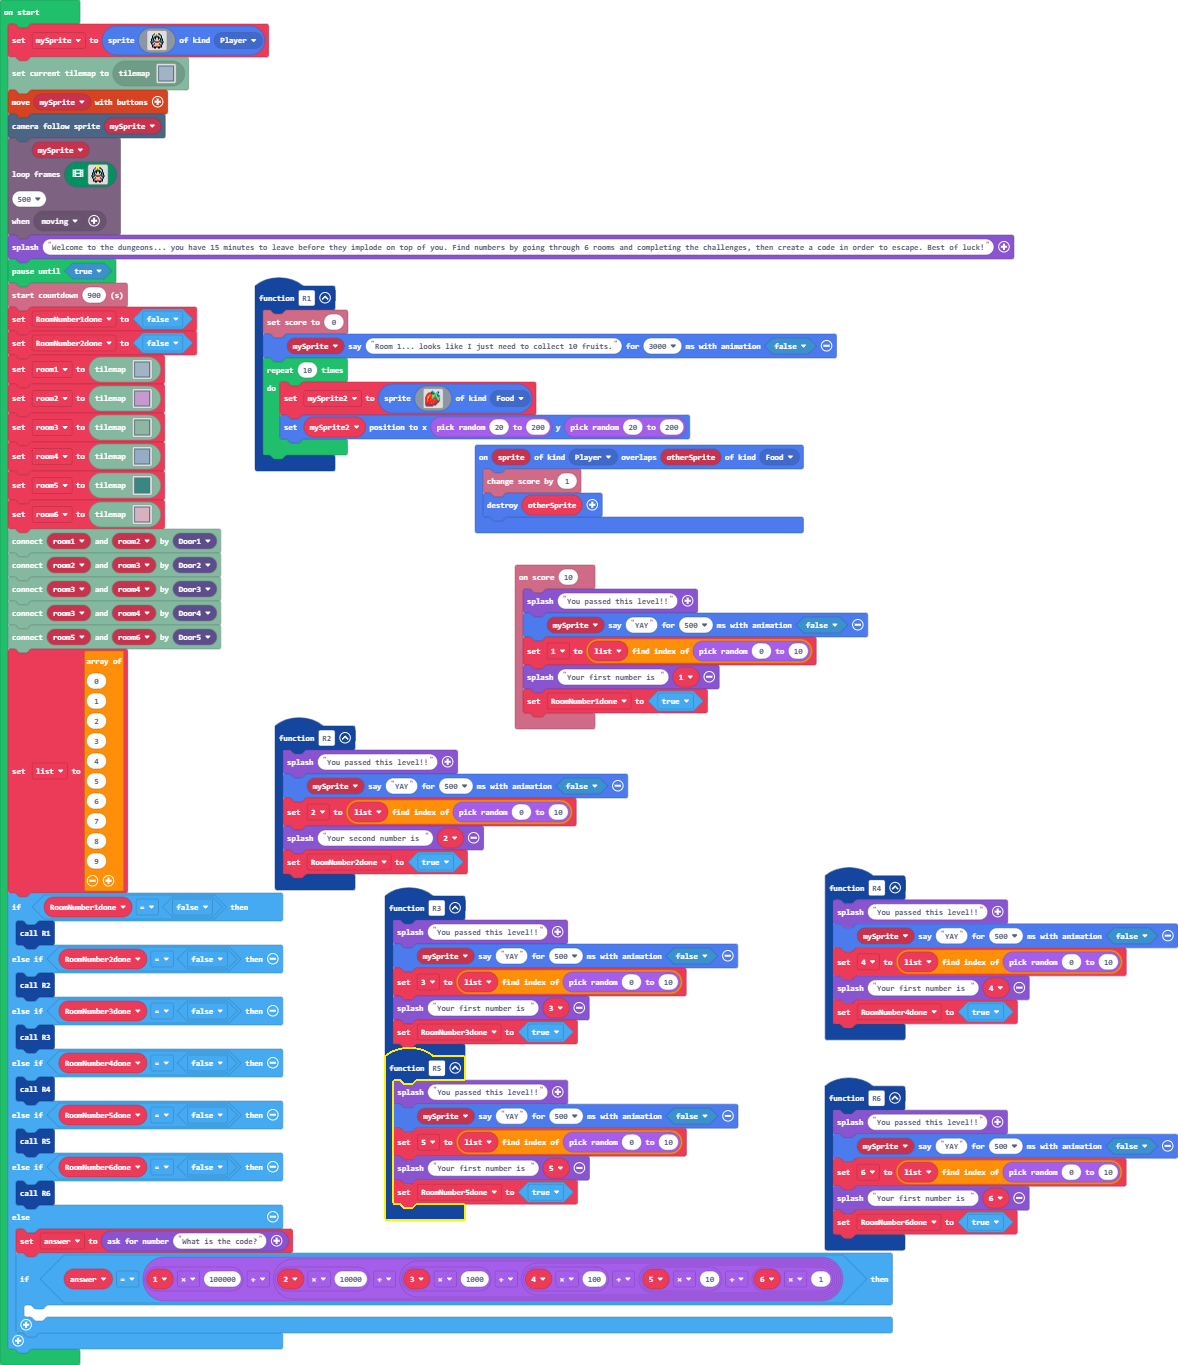
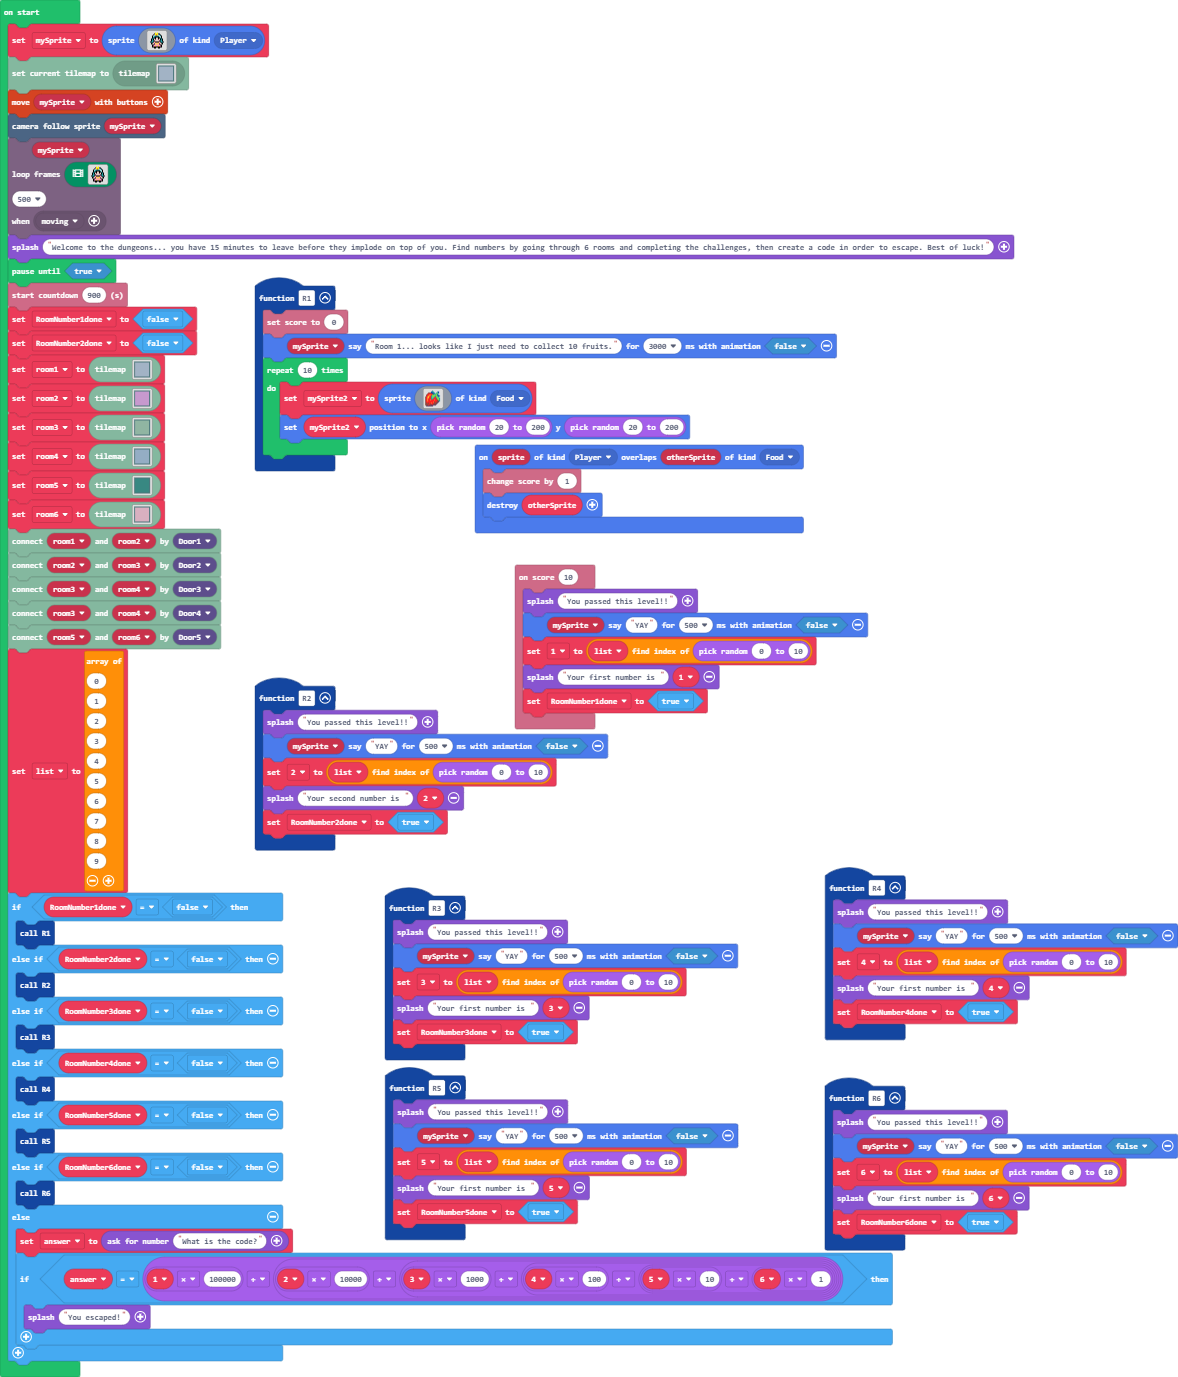
Update main.blocks, main.ts

Changed region(s): [[0.0, 0.0308, 1.0, 0.9846]]

diff --git a/main.ts b/main.ts
@@ -211,6 +211,6 @@ if (RoomNumber1done == false) {
 } else {
     answer = game.askForNumber("What is the code?")
     if (answer == _1 * 100000 + (_2 * 10000 + (_3 * 1000 + (_4 * 100 + (_5 * 10 + _6 * 1))))) {
-    	
+        game.splash("You escaped!")
     }
 }
